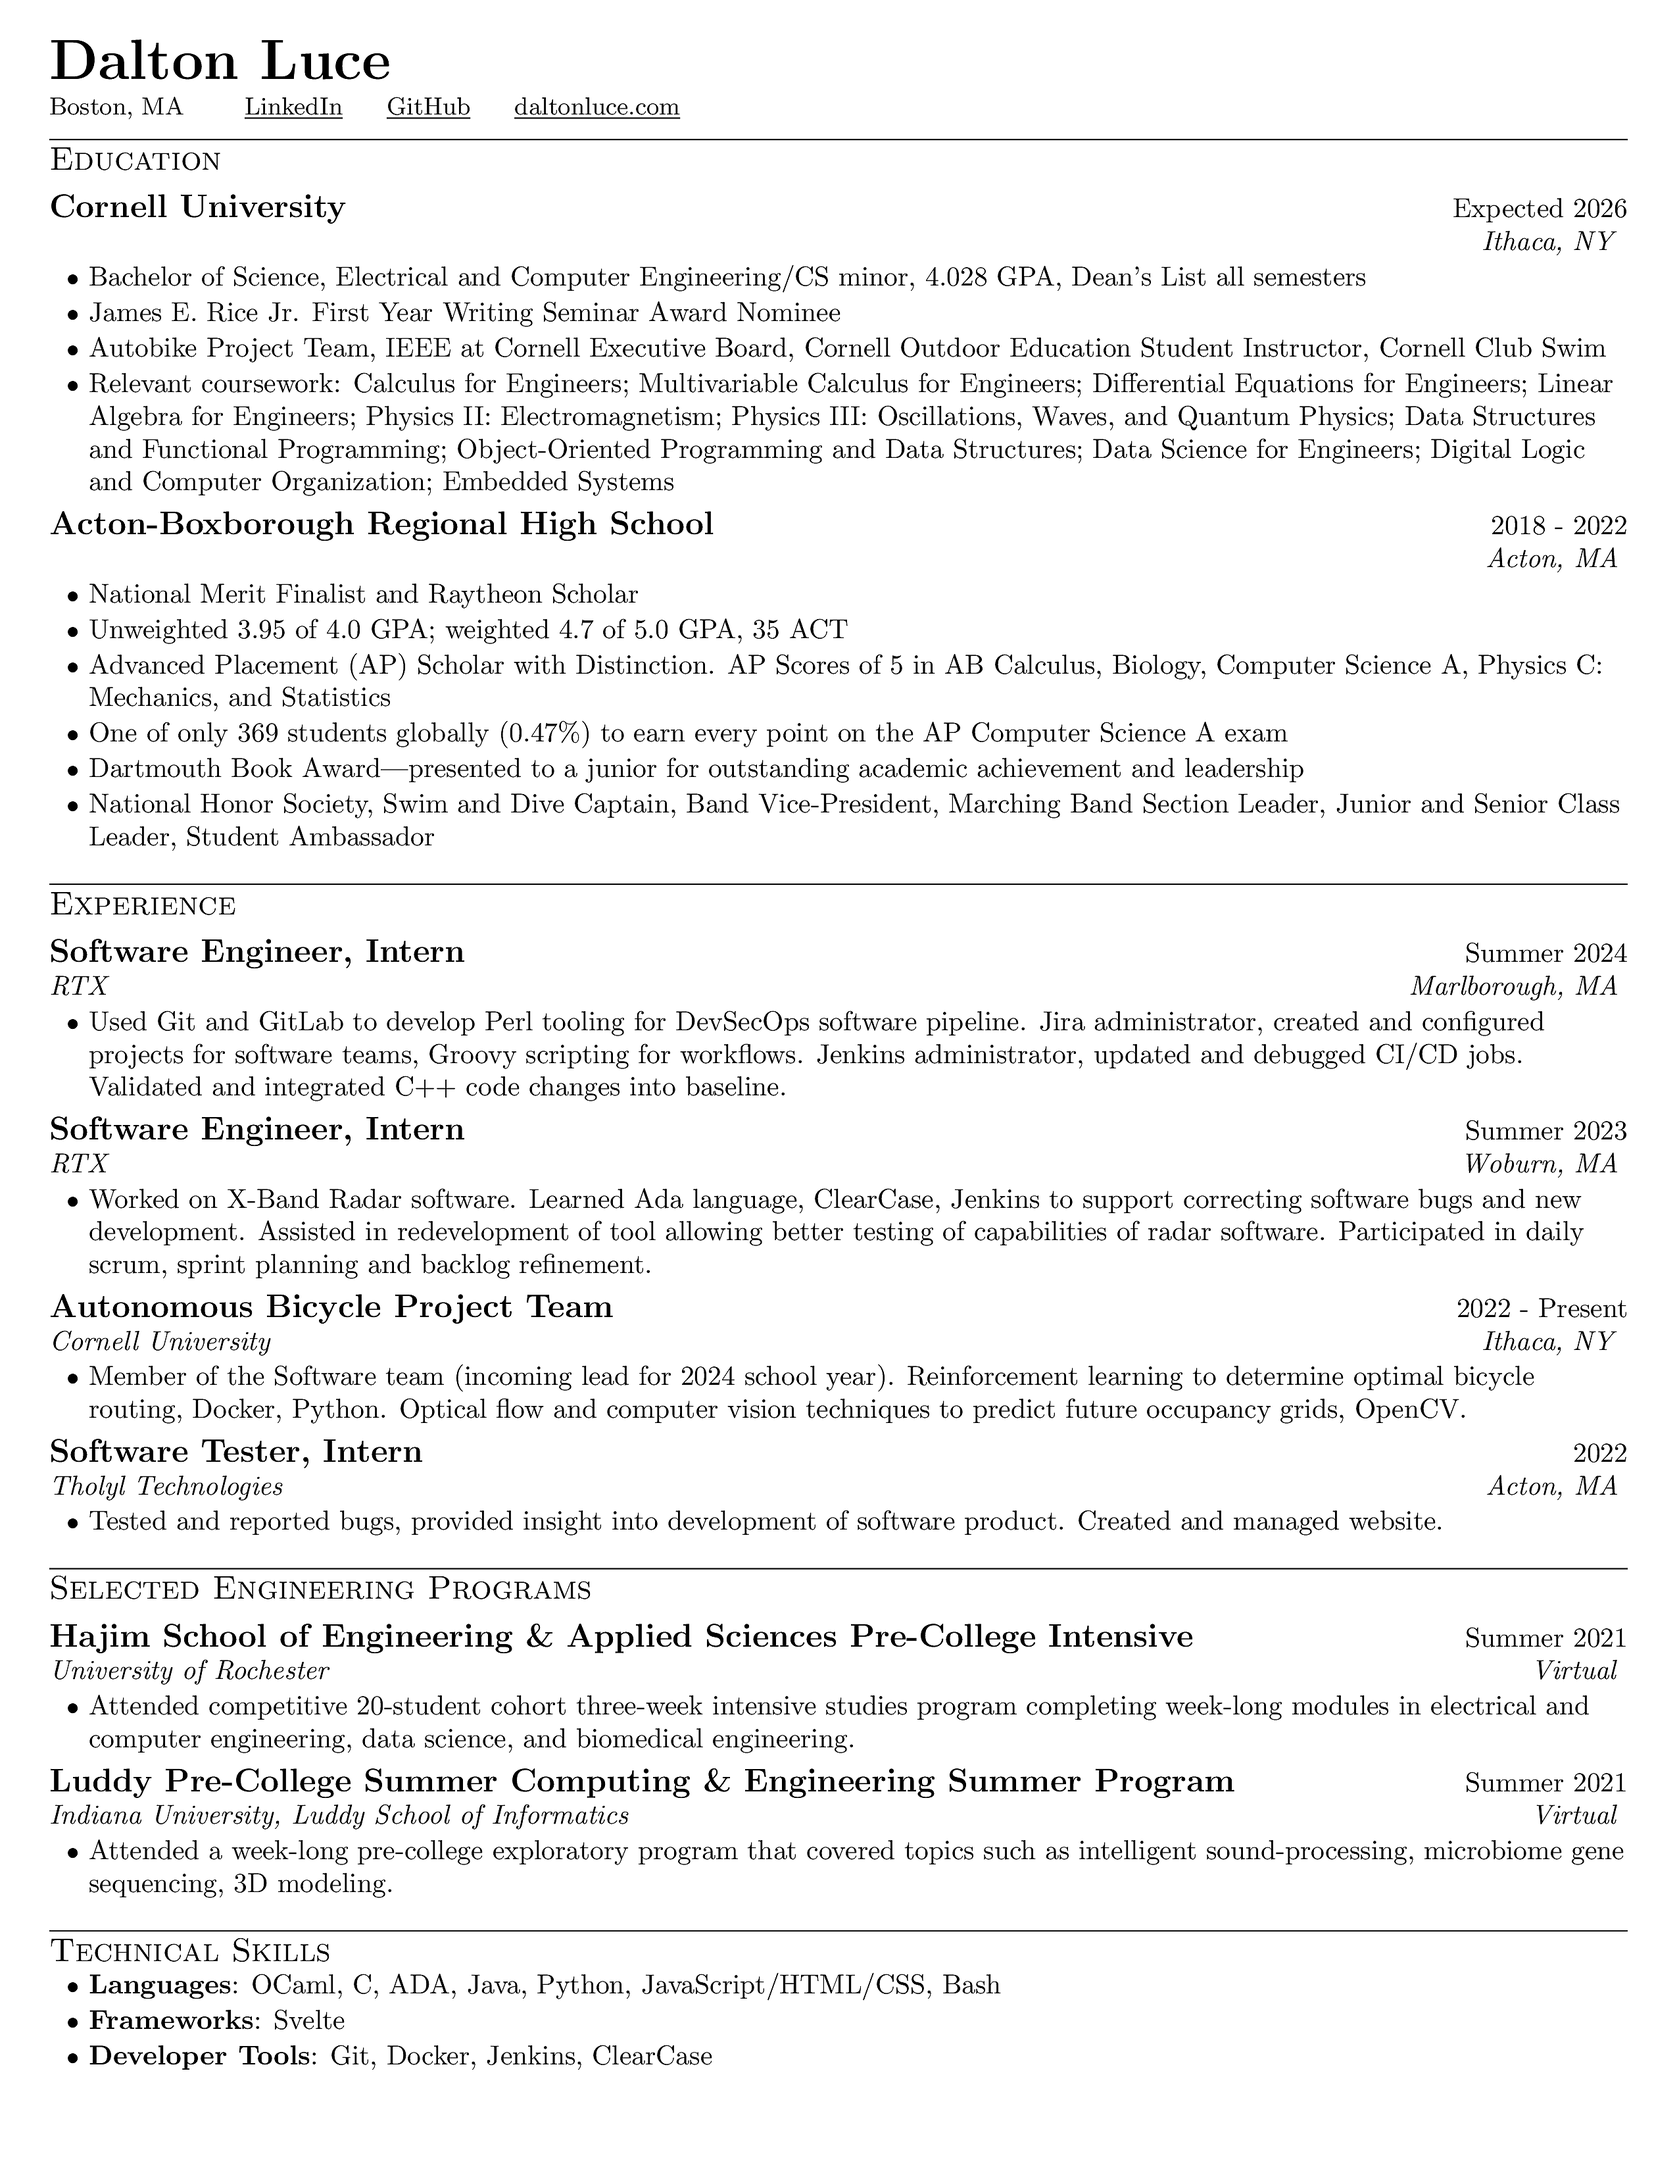
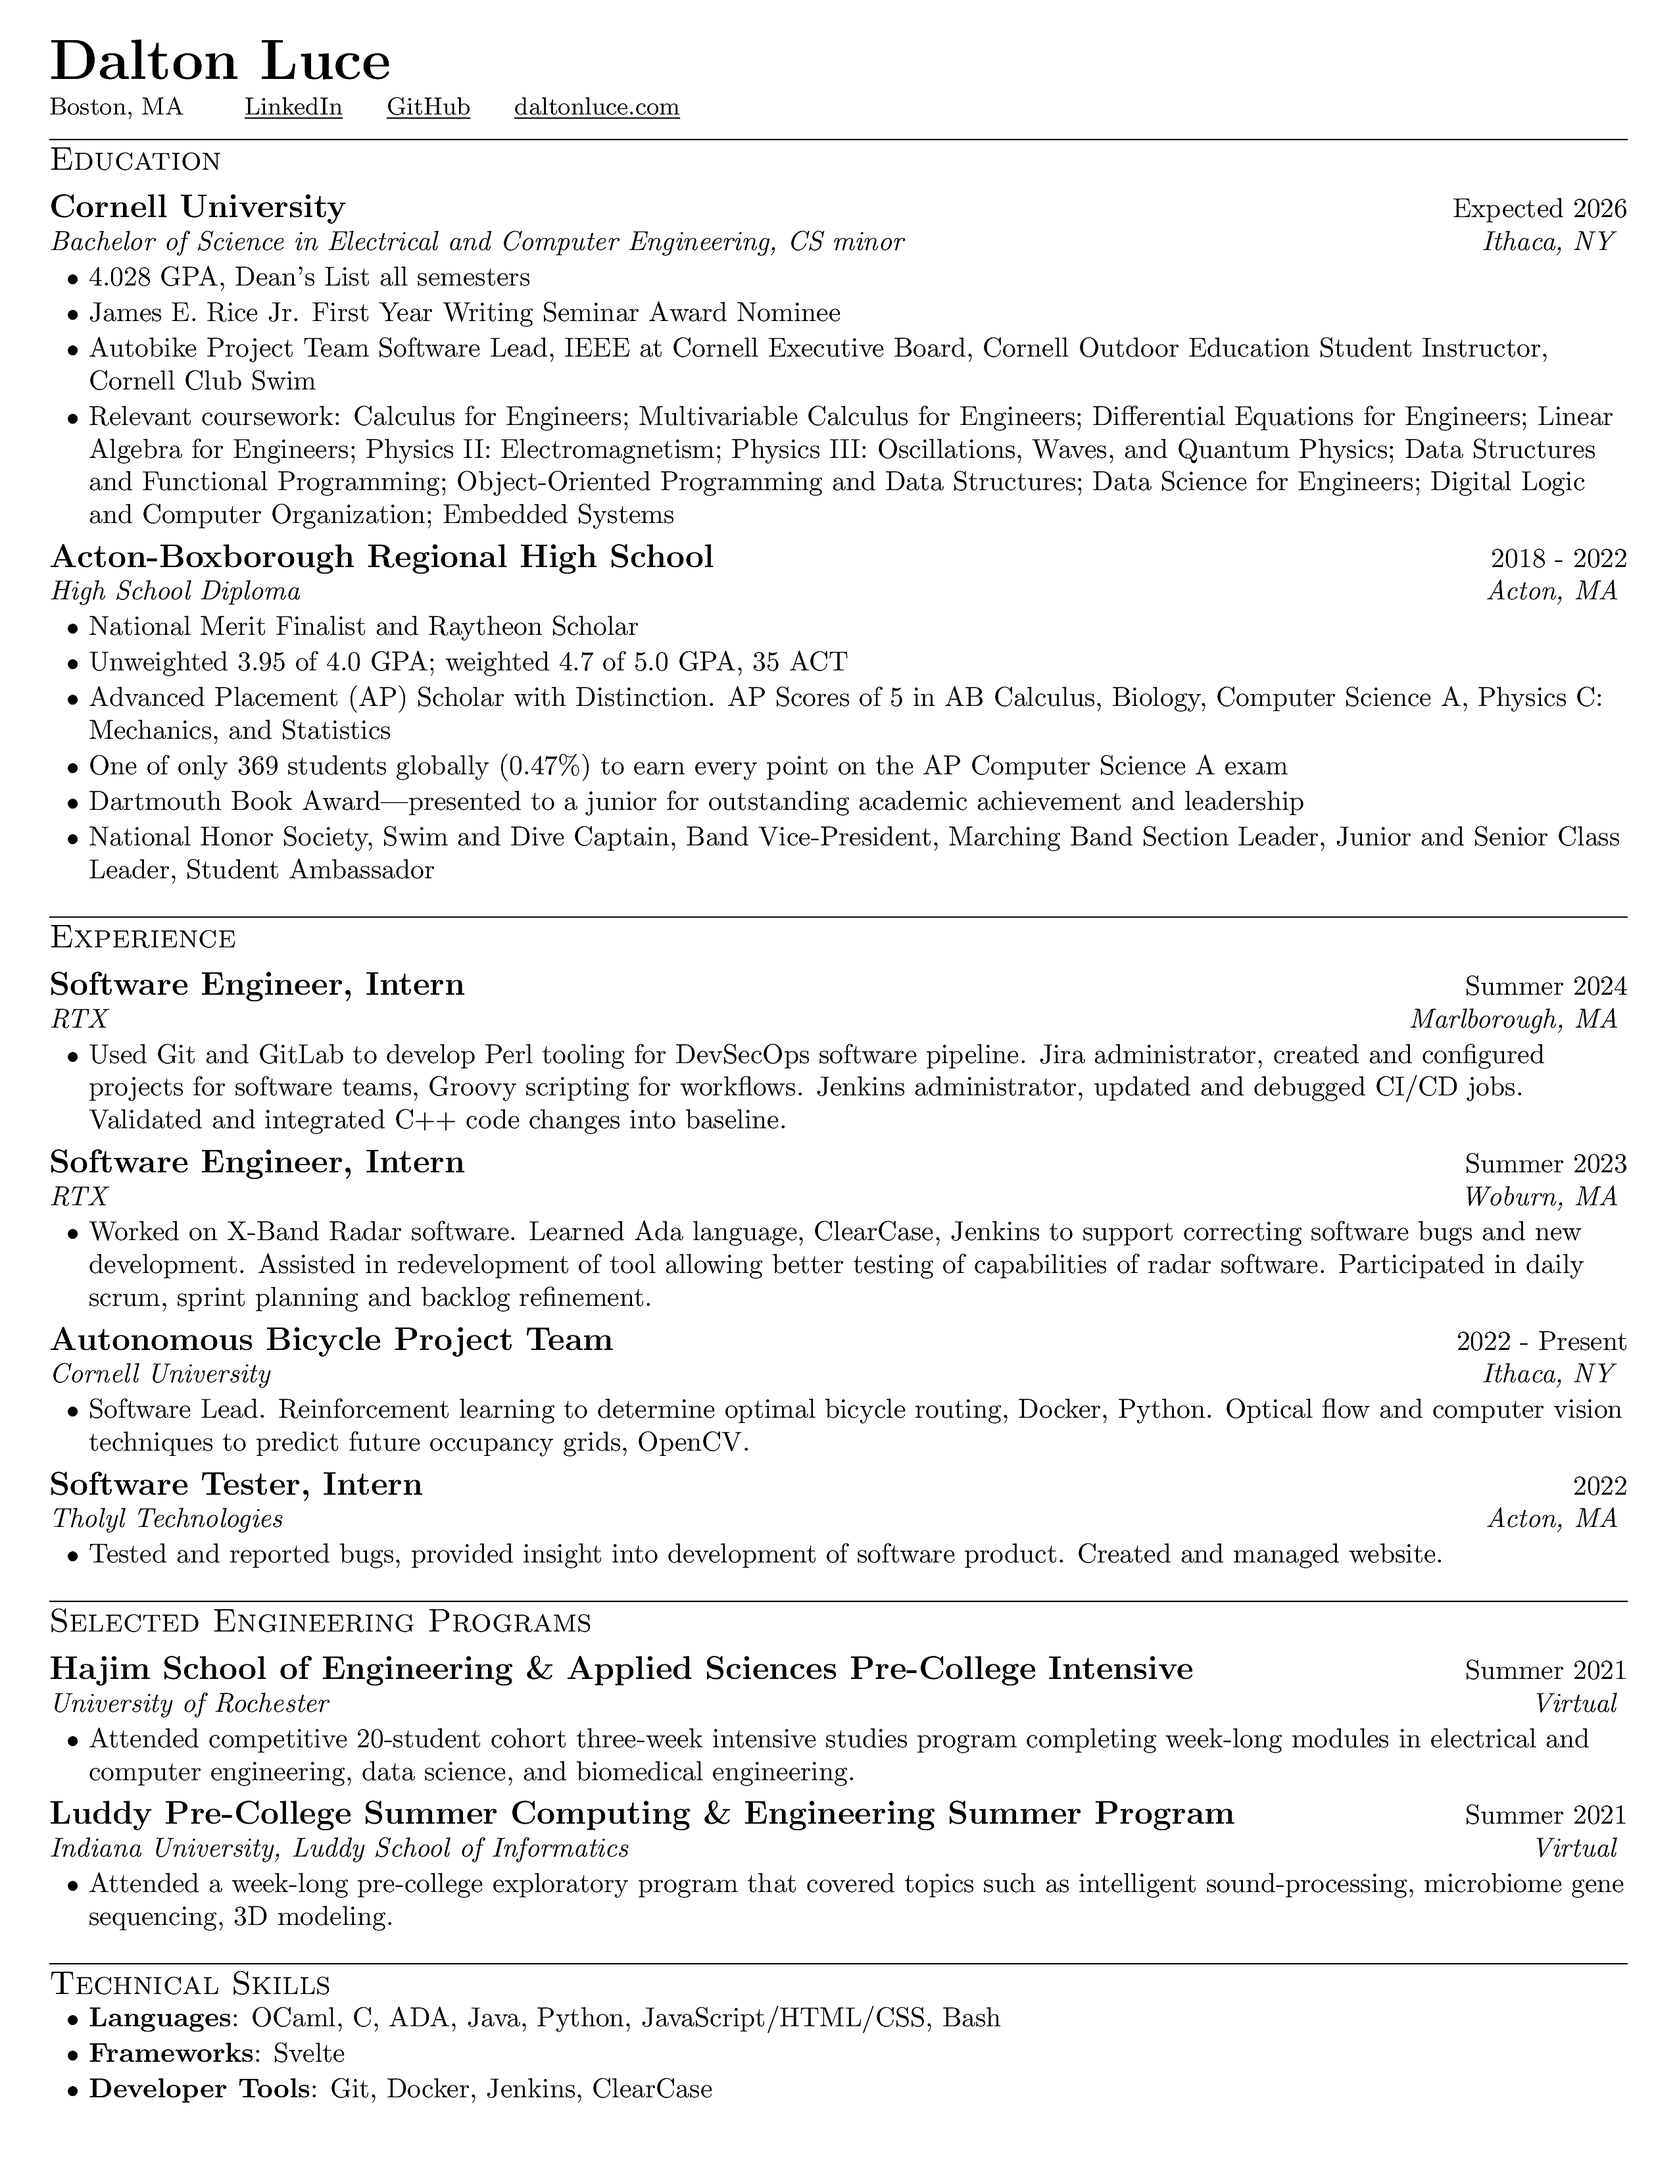
add degrees and update autobike lead

Changed region(s): [[0.031, 0.1248, 0.9604, 0.9676], [0.4027, 0.6867, 0.6196, 0.7179], [0.6506, 0.6867, 0.8365, 0.7179]]

diff --git a/cv.tex b/cv.tex
@@ -121,13 +121,13 @@
     \resumeEntry
         {Cornell University}
         {Expected 2026}
-        {}
+        {Bachelor of Science in Electrical and Computer Engineering, CS minor}
         {Ithaca, NY}
 
     \itemsBegin
-        \item Bachelor of Science, Electrical and Computer Engineering/CS minor, 4.028 GPA, Dean’s List all semesters
+        \item 4.028 GPA, Dean’s List all semesters
         \item James E. Rice Jr. First Year Writing Seminar Award Nominee
-        \item Autobike Project Team, IEEE at Cornell Executive Board, Cornell Outdoor Education Student Instructor, Cornell Club Swim
+        \item Autobike Project Team Software Lead, IEEE at Cornell Executive Board, Cornell Outdoor Education Student Instructor, Cornell Club Swim
         \item Relevant coursework: Calculus for Engineers; Multivariable Calculus for Engineers; Differential Equations for Engineers; Linear Algebra for Engineers; Physics II: Electromagnetism; Physics III: Oscillations, Waves, and Quantum Physics; Data Structures and Functional Programming; Object-Oriented Programming and Data Structures; Data Science for Engineers; Digital Logic and Computer Organization; Embedded Systems
     \itemsEnd
 
@@ -135,7 +135,7 @@
     \resumeEntry
         {Acton-Boxborough Regional High School}
         {2018 - 2022}
-        {}
+        {High School Diploma}
         {Acton, MA}
 
     \itemsBegin
@@ -180,7 +180,7 @@
         {Ithaca, NY}
 
     \itemsBegin
-        \item Member of the Software team (incoming lead for 2024 school year). Reinforcement learning to determine optimal bicycle routing, Docker, Python. Optical flow and computer vision techniques to predict future occupancy grids, OpenCV.
+        \item Software Lead. Reinforcement learning to determine optimal bicycle routing, Docker, Python. Optical flow and computer vision techniques to predict future occupancy grids, OpenCV.
     \itemsEnd
 
     %--------Tholyl--------
